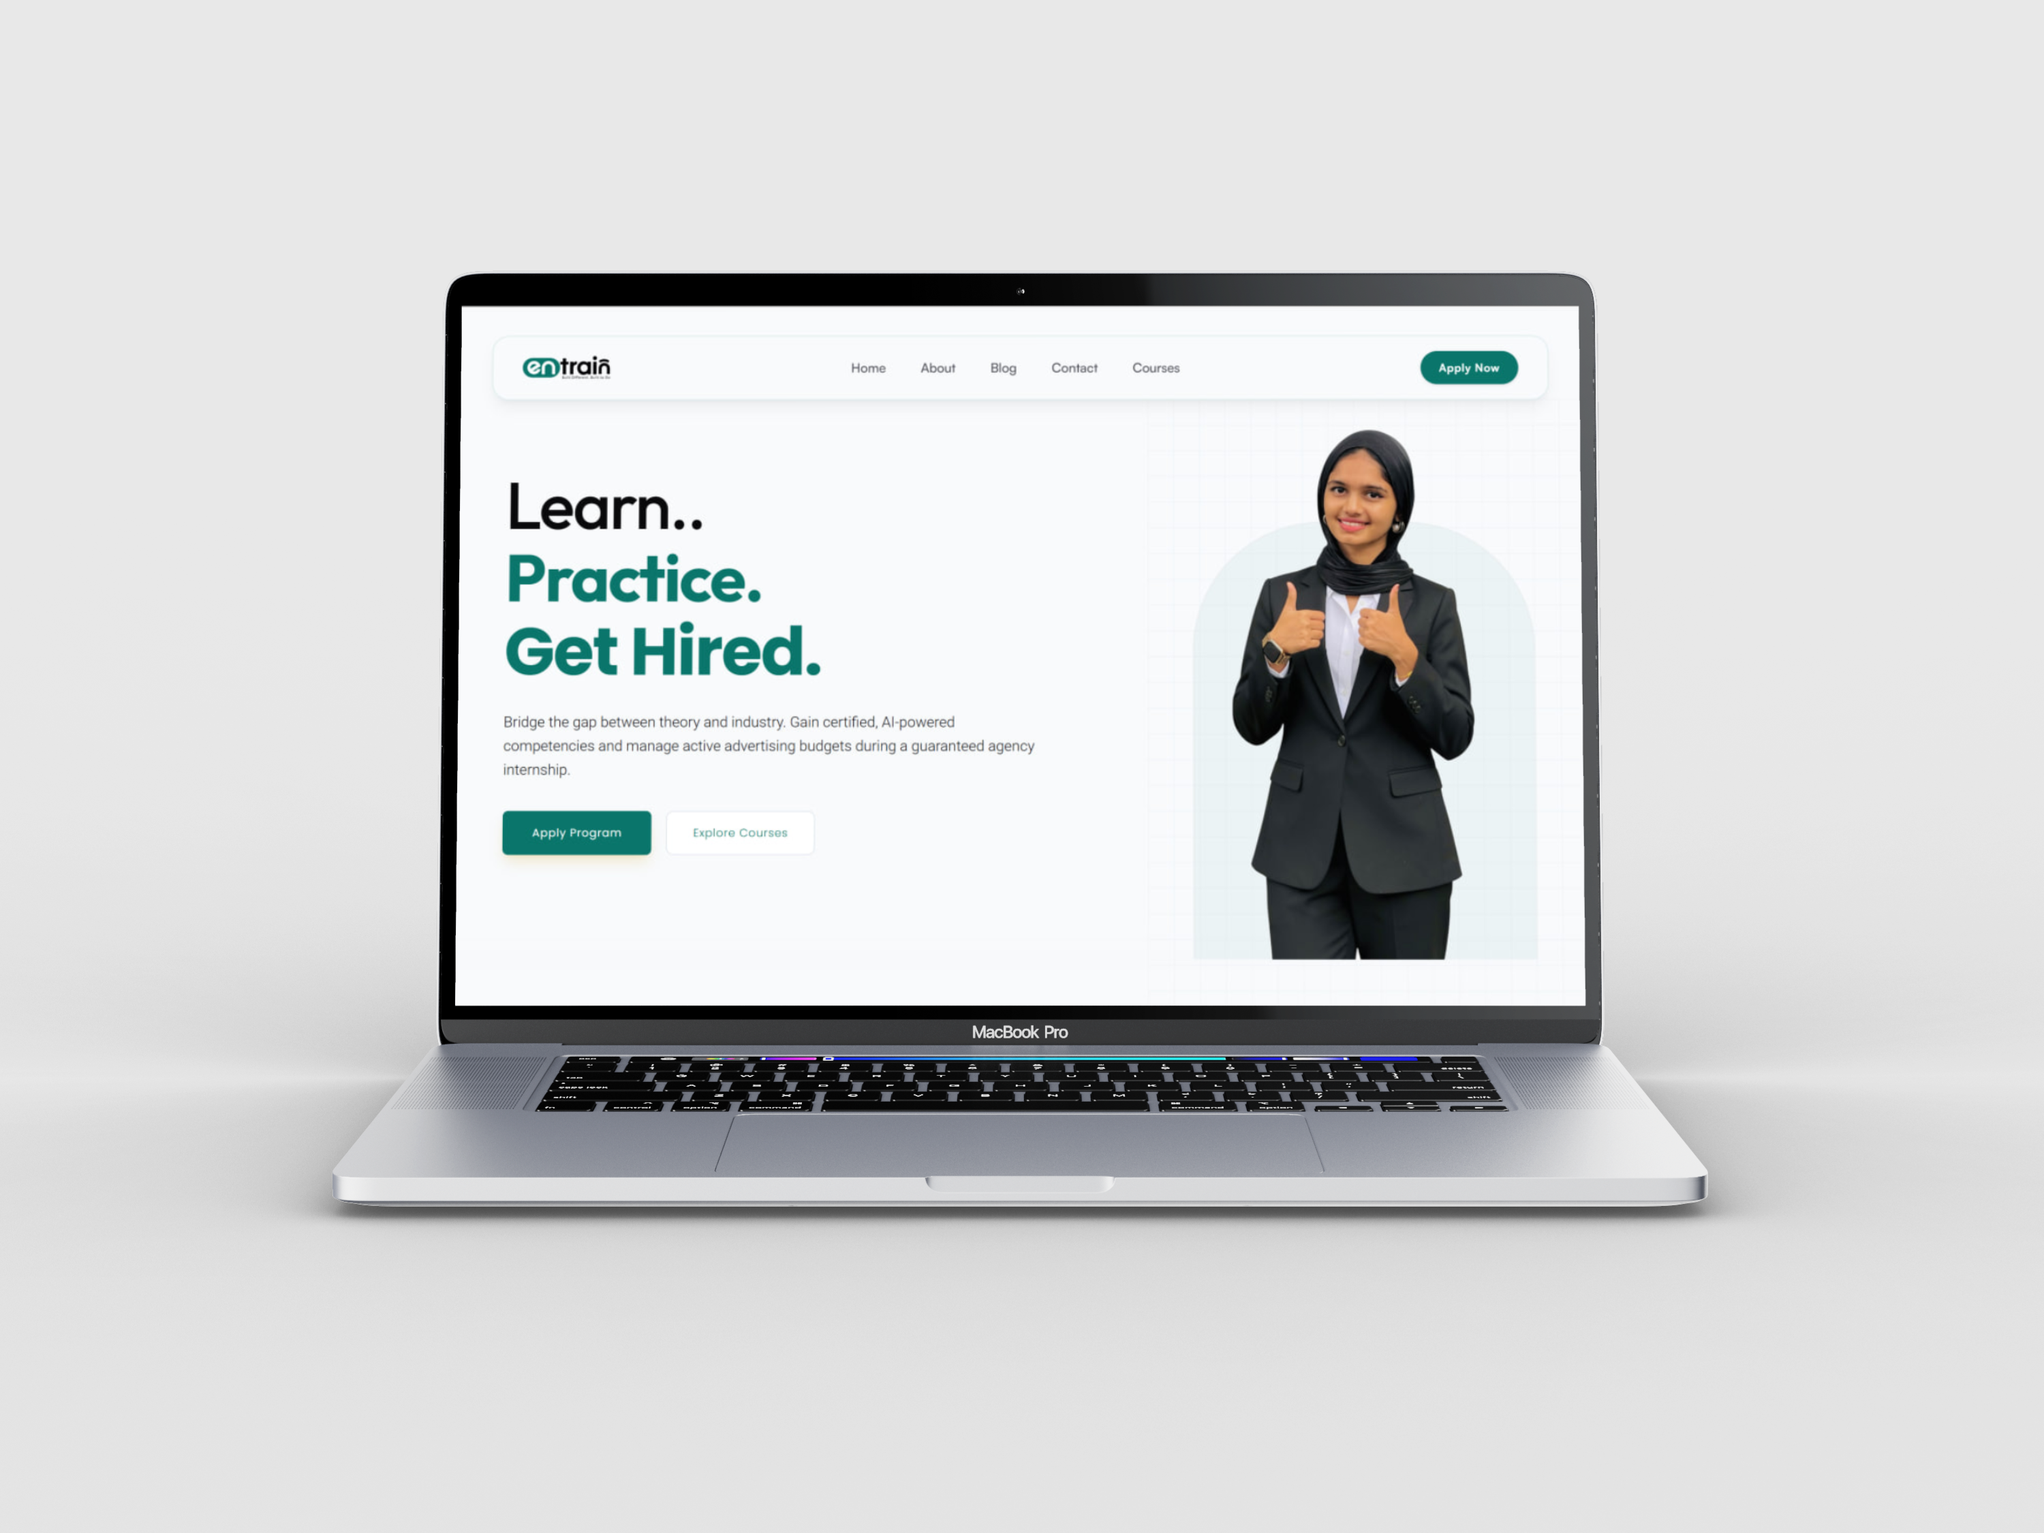
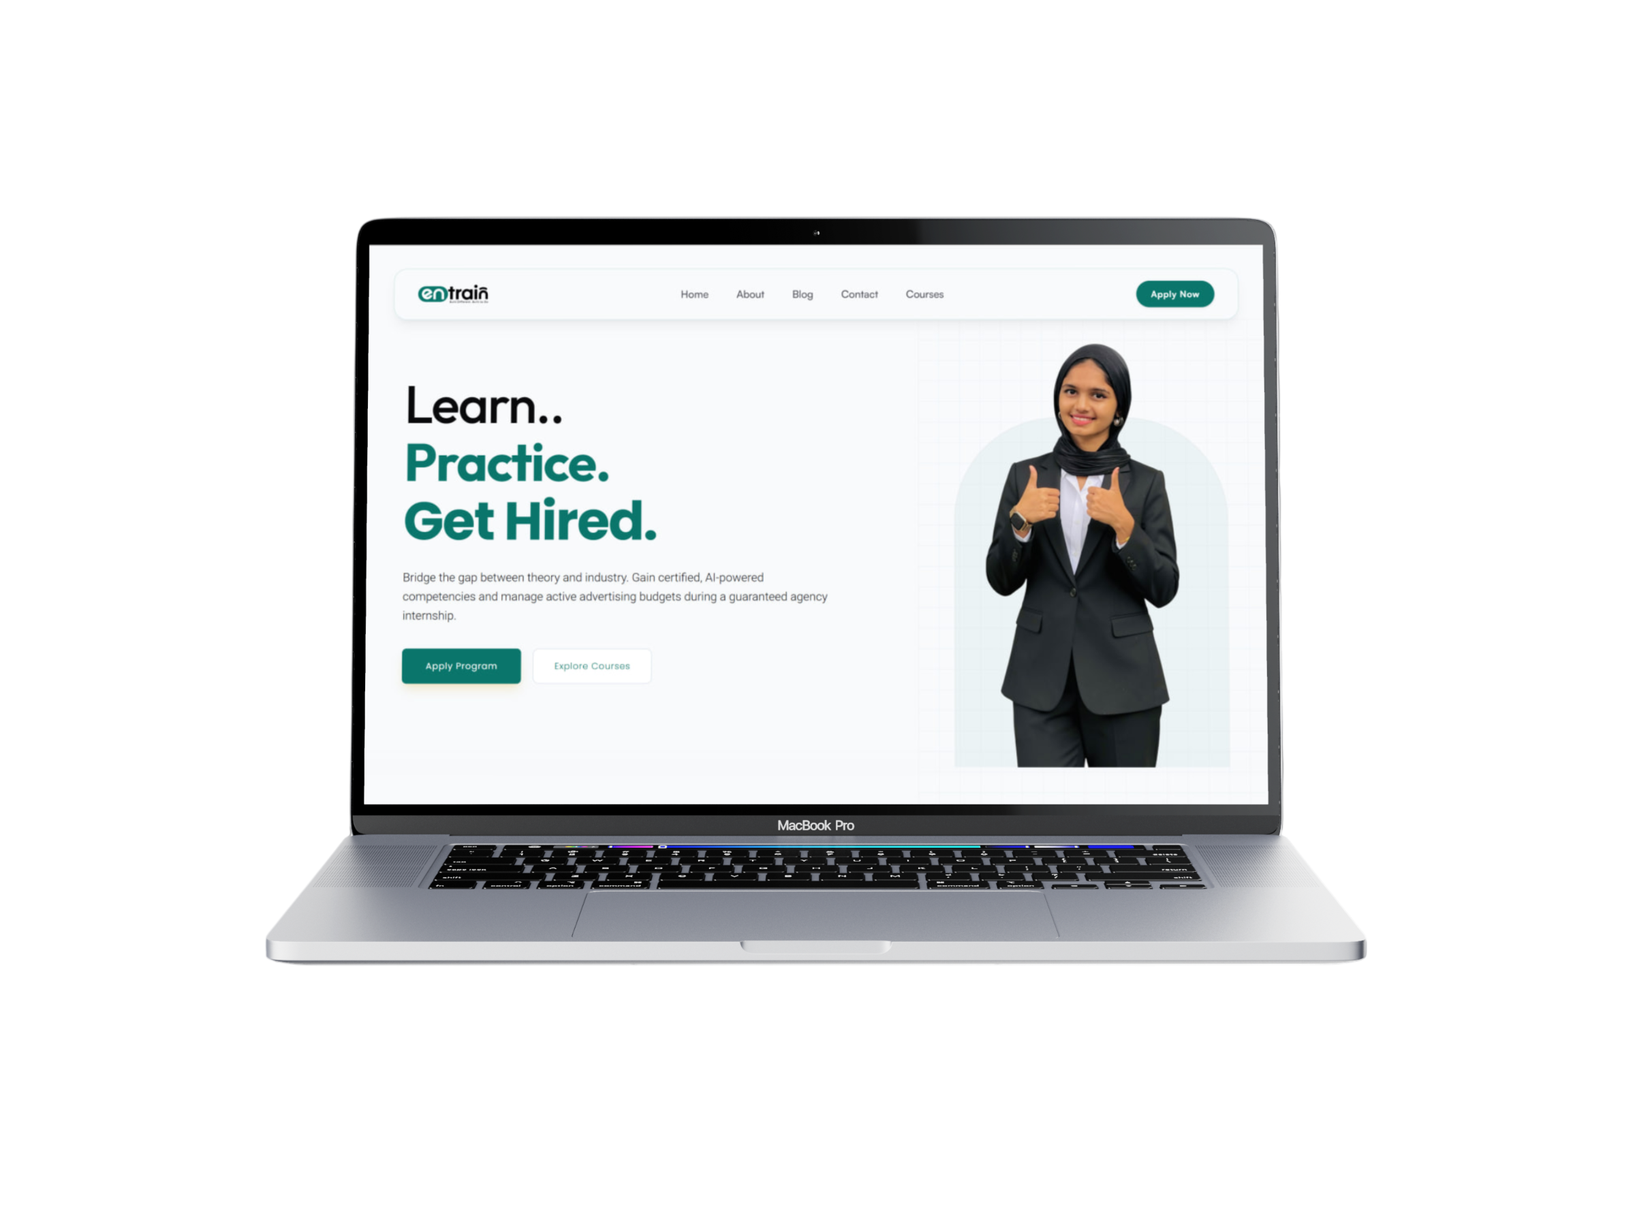
workspages

diff --git a/src/pages/Entrainlabs.jsx b/src/pages/Entrainlabs.jsx
@@ -47,14 +47,7 @@ export default function Entrainlabs({ onOpenConsultation }) {
 
                 {/* 2. BRAND COLOR SYSTEM & LOGO USAGE (colorpattern.png & entrain-three.png) */}
                 <div className="mb-20 space-y-10">
-                    <div className="max-w-3xl">
-                        {/* <span className="text-xs font-mono text-[#005C55] uppercase tracking-widest block mb-2 font-bold">
-              // BRAND ASSETS & LOGO GUIDELINES
-            </span> */}
-                        <h2 className="font-display text-3xl sm:text-5xl font-extrabold text-[#101827]">
-                            Color Topology & Logo Usage Rules
-                        </h2>
-                    </div>
+
 
                     <div className="grid grid-cols-1 lg:grid-cols-2 gap-8">
                         {/* Color System Board */}
@@ -81,10 +74,7 @@ export default function Entrainlabs({ onOpenConsultation }) {
                                         className="w-full h-auto object-contain block"
                                     />
                                 </div>
-                                <div className="px-3 pb-2">
-                                    <h3 className="font-display font-bold text-xl text-[#101827]">Logo Safety & Contrast Panels</h3>
-                                    <p className="text-xs text-neutral-500 font-mono mt-1">White Background • Light Grey Background • Dark Surface</p>
-                                </div>
+
                             </div>
                         </Reveal>
                     </div>
@@ -92,14 +82,7 @@ export default function Entrainlabs({ onOpenConsultation }) {
 
                 {/* 3. FULL BRAND IDENTITY SYSTEM BOARD (entrain.png) */}
                 <div className="mb-20 space-y-8">
-                    <div className="max-w-3xl">
-                        <span className="text-xs font-mono text-[#005C55] uppercase tracking-widest block mb-2 font-bold">
-          
-                        </span>
-                        <h2 className="font-display text-3xl sm:text-5xl font-extrabold text-[#101827]">
-                            Corporate Master Identity Specification
-                        </h2>
-                    </div>
+
 
                     <div className="grid grid-cols-1 lg:grid-cols-2 gap-8">
                         {/* Color System Board */}
@@ -126,81 +109,73 @@ export default function Entrainlabs({ onOpenConsultation }) {
                                         className="w-full h-auto object-contain block"
                                     />
                                 </div>
-                                <div className="px-3 pb-2">
-                                    <h3 className="font-display font-bold text-xl text-[#101827]">Logo Safety & Contrast Panels</h3>
-                                    <p className="text-xs text-neutral-500 font-mono mt-1">White Background • Light Grey Background • Dark Surface</p>
-                                </div>
+
                             </div>
                         </Reveal>
                     </div>
-                    <Reveal direction="up" delay={0.2}>
+                    {/* <Reveal direction="up" delay={0.2}>
                         <div className="w-full  overflow-hidden  group h-full flex flex-col justify-between p-3 sm:p-4">
                             <div className=" overflow-hidden mb-4">
                                 <img
-                                    src="/images/logo-card.png"
+                                    src="/images/logo-card-1.png"
                                     alt="enTrain Correct Logo Usage"
-                                    className="w-[25px] h-auto object-contain block"
+                                    className="w-full h-auto object-contain block"
                                 />
                             </div>
-                            <div className="px-3 pb-2">
-                                <h3 className="font-display font-bold text-xl text-[#101827]">Logo Safety & Contrast Panels</h3>
-                                <p className="text-xs text-neutral-500 font-mono mt-1">White Background • Light Grey Background • Dark Surface</p>
-                            </div>
+
                         </div>
-                    </Reveal>
+                    </Reveal> */}
+
+                    <div className="grid grid-cols-1 lg:grid-cols-2 gap-8">
+                        {/* Color System Board */}
+                        <Reveal direction="up" delay={0.1}>
+                            <div className="w-full  overflow-hidden     group h-full flex flex-col justify-between p-3 sm:p-4">
+                                <div className=" overflow-hidden mb-4">
+                                    <img
+                                        src="/images/logo-card-2.png"
+                                        alt="enTrain Corporate Color System"
+                                        className="w-full h-auto object-contain block"
+                                    />
+                                </div>
+
+                            </div>
+                        </Reveal>
+
+                        {/* Logo Usage Board */}
+                        <Reveal direction="up" delay={0.2}>
+                            <div className="w-full rounded-3xl overflow-hidden  border border-slate-300/60 group h-full flex flex-col justify-between p-3 sm:p-4">
+                                <div className=" overflow-hidden mb-4">
+                                    <img
+                                        src="/images/logo-card-1.png"
+                                        alt="enTrain Correct Logo Usage"
+                                        className="w-full h-auto object-contain block"
+                                    />
+                                </div>
+
+                            </div>
+                        </Reveal>
+                    </div>
                 </div>
 
                 {/* 4. DIGITAL INTERFACE PREVIEWS (LAPTOP & WEBSITE) */}
                 <div className="mb-20 space-y-8">
-                    <div className="max-w-3xl">
-                        <span className="text-xs font-mono text-[#005C55] uppercase tracking-widest block mb-2 font-bold">
-              // DIGITAL INTERFACE ARCHITECTURE
-                        </span>
-                        <h2 className="font-display text-3xl sm:text-5xl font-extrabold text-[#101827]">
-                            Web Platform & Application Execution
-                        </h2>
-                    </div>
+                  
 
-                    <div className="grid grid-cols-1 md:grid-cols-2 gap-8">
+                    <div className="grid grid-cols-1 gap-8">
                         <Reveal direction="up" delay={0.1}>
-                            <div className="bg-white rounded-3xl p-4 sm:p-6 shadow-xl border border-slate-300/60 h-full flex flex-col justify-between group">
-                                <div className="aspect-[16/10] rounded-2xl overflow-hidden bg-slate-100 mb-6">
+                            <div className="  p-4 sm:p-6 lg:p-8  h-full flex flex-col justify-between group">
+                                <div className="w-full rounded-2xl overflow-hidden">
                                     <img
                                         src="/images/labs-laptop-mockup.png"
                                         alt="enTrain Laptop Mockup"
-                                        className="w-full h-full object-cover transform group-hover:scale-105 transition-transform duration-700"
+                                        className="w-full h-auto object-contain block transform group-hover:scale-105 transition-transform duration-700"
                                     />
                                 </div>
-                                <div>
-                                    <h3 className="font-display text-2xl font-bold text-[#101827] mb-2">
-                                        Enterprise Advisory Portal
-                                    </h3>
-                                    <p className="text-neutral-600 text-sm leading-relaxed font-light">
-                                        High-trust web dashboard built for automated consulting appointment triggers and client telemetry.
-                                    </p>
-                                </div>
+
                             </div>
                         </Reveal>
 
-                        <Reveal direction="up" delay={0.2}>
-                            <div className="bg-white rounded-3xl p-4 sm:p-6 shadow-xl border border-slate-300/60 h-full flex flex-col justify-between group">
-                                <div className="aspect-[16/10] rounded-2xl overflow-hidden bg-slate-100 mb-6">
-                                    <img
-                                        src="/images/labswebsite.jpg"
-                                        alt="enTrain Web System"
-                                        className="w-full h-full object-cover transform group-hover:scale-105 transition-transform duration-700"
-                                    />
-                                </div>
-                                <div>
-                                    <h3 className="font-display text-2xl font-bold text-[#101827] mb-2">
-                                        Topical Authority Engine
-                                    </h3>
-                                    <p className="text-neutral-600 text-sm leading-relaxed font-light">
-                                        SEO-optimized web architecture engineered for organic traffic expansion and high conversion rates.
-                                    </p>
-                                </div>
-                            </div>
-                        </Reveal>
+
                     </div>
                 </div>
 

diff --git a/src/pages/Buckeez.jsx b/src/pages/Buckeez.jsx
@@ -7,14 +7,9 @@ import { Target, CheckCircle2 } from 'lucide-react';
 
 export default function Buckeez({ onOpenConsultation }) {
   return (
-    <main className="pt-24 sm:pt-32 pb-0 bg-[#E2E3E6] text-[#111111] min-h-screen">
+    <main className="pt-24 sm:pt-32 pb-0  bg-[#F3F1EE] text-[#111111] min-h-screen">
       <section className="py-12 sm:py-20 px-4 sm:px-6 lg:px-8 max-w-7xl mx-auto">
-        <SectionLabel label="CASE STUDY" variant="light" className="mb-4" />
-        
         <div className="mb-12">
-          <span className="text-xs font-mono font-bold tracking-widest text-[#4355A5] uppercase bg-[#4355A5]/10 px-3.5 py-1.5 rounded-full border border-[#4355A5]/20 inline-block mb-3">
-            FOOD & BEVERAGE FRANCHISE
-          </span>
           <h1 className="font-display text-4xl sm:text-6xl font-extrabold text-[#101827] tracking-tight">
             Buckeez Digital
           </h1>
@@ -23,38 +18,103 @@ export default function Buckeez({ onOpenConsultation }) {
           </p>
         </div>
 
-        {/* Hero Visual Mockup */}
-        <div className="w-full rounded-3xl sm:rounded-[2.5rem] overflow-hidden shadow-2xl bg-slate-900/5 mb-16">
-          <img
-            src="/images/buckeezmockup.png"
-            alt="Buckeez Digital Mockup"
-            className="w-full h-auto object-contain block"
-          />
-        </div>
+        {/* Hero & Interface Visual Showcase */}
+        <div className="space-y-2 mb-6">
+          <Reveal direction="up" delay={0.1}>
+            <div className="w-full rounded-3xl sm:rounded-[2.5rem] overflow-hidden">
+              <img
+                src="/images/buckeezmockup.png"
+                alt="Buckeez Main Digital Mockup"
+                className="w-full h-auto object-contain block"
+              />
+            </div>
+          </Reveal>
 
-        {/* Challenge & Solution */}
-        <div className="grid grid-cols-1 md:grid-cols-2 gap-8 mb-16">
-          <div className="p-8 rounded-3xl bg-white border border-slate-200/80 shadow-md">
-            <h3 className="font-display font-bold text-xl text-neutral-900 mb-3 flex items-center gap-2">
-              <Target className="w-5 h-5 text-amber-600" /> The Challenge
-            </h3>
-            <p className="text-neutral-600 text-base leading-relaxed">
-              Capturing mobile-first restaurant diners and increasing direct online franchise order volume while maintaining brand consistency across multiple locations.
-            </p>
+
+
+          {/* Brand Identity & Typography Guidelines */}
+          <div className="grid grid-cols-1 md:grid-cols-2 gap-8">
+            <Reveal direction="up" delay={0.25}>
+              <div className="w-full  p-4 sm:p-6  border-slate-300/60 overflow-hidden group transition-all duration-500 hover:shadow-2xl">
+                <div className="w-full rounded-2xl overflow-hidden  mb-4">
+                  <img
+                    src="/images/buckeez-brand-names.png"
+                    alt="Buckeez Brand Identity Guidelines"
+                    className="w-full h-auto object-contain block transform group-hover:scale-[1.015] transition-transform duration-700"
+                  />
+                </div>
+
+              </div>
+            </Reveal>
+
+            <Reveal direction="up" delay={0.3}>
+              <div className="w-full  rounded-3xl p-4 sm:p-6   overflow-hidden group transition-all duration-500 hover:shadow-2xl">
+                <div className="w-full  overflow-hidden  mb-4">
+                  <img
+                    src="/images/buckeez-fonts.png"
+                    alt="Buckeez Typography & Font System"
+                    className="w-full h-auto object-contain block transform group-hover:scale-[1.015] transition-transform duration-700"
+                  />
+                </div>
+
+              </div>
+            </Reveal>
+
+
+          </div>
+          <Reveal direction="up" delay={0.25}>
+            <div className="w-full  rounded-3xl overflow-hidden flex items-center justify-center">
+              <img
+                src="/images/buckeez-color-palette.png"
+                alt="Buckeez Corporate Color Palette"
+                className="w-full h-auto object-contain block transform hover:scale-[1.01] transition-transform duration-700"
+              />
+            </div>
+          </Reveal>
+          <div className="grid grid-cols-1 lg:grid-cols-12 gap-8 items-stretch">
+            {/* Tablet Mockup Card - 7 Columns */}
+            {/* <Reveal direction="up" delay={0.15} className="lg:col-span-7 flex">
+              <div className="w-full  rounded-3xl p-4 sm:p-6    overflow-hidden group transition-all duration-500  flex flex-col justify-between">
+                <div className="w-full rounded-2xl overflow-hidden  mb-4 flex items-center justify-center p-2">
+                  <img
+                    src="/images/buckeez_tablet_mockup.png"
+                    alt="Buckeez Tablet Ordering Interface"
+                    className="w-full h-auto object-contain block transform group-hover:scale-[1.02] transition-transform duration-700"
+                  />
+                </div>
+
+              </div>
+            </Reveal> */}
+
+            {/* Instagram Profile Card - 5 Columns */}
+            <Reveal direction="up" delay={0.2} className="lg:col-span-5 flex">
+              <div className="w-full  rounded-2xl p-4 sm:p-6      overflow-hidden group transition-all -px-2 duration-500  flex flex-col justify-between">
+                <div className="w-78 rounded-2xl overflow-hidden pt-2  mb-4 bg-white  flex items-center justify-center p-2">
+                  <img
+                    src="/images/buckeez-instagram.png"
+                    alt="Buckeez Social Media & Ad Campaign"
+                    className="w-full h-auto max-h-[500px]  object-contain block mx-auto transform group-hover:scale-[1.02] transition-transform duration-700"
+                  />
+                </div>
+                <div className="px-2 pt-1">
+                  <span className="text-[11px] font-mono font-bold tracking-widest text-[#4355A5] uppercase">
+                    {/* SOCIAL MEDIA & VIRAL REACH */}
+                  </span>
+                  <h3 className="font-display font-bold text-xl text-[#101827] mt-0.5">
+                    {/* Buckeez Community & Growth */}
+                  </h3>
+                </div>
+              </div>
+            </Reveal>
           </div>
 
-          <div className="p-8 rounded-3xl bg-white border border-slate-200/80 shadow-md">
-            <h3 className="font-display font-bold text-xl text-neutral-900 mb-3 flex items-center gap-2">
-              <CheckCircle2 className="w-5 h-5 text-emerald-600" /> The Growth Solution
-            </h3>
-            <p className="text-neutral-600 text-base leading-relaxed">
-              Designed an appetite-stimulating, fast-loading mobile interface with single-tap checkout, instant location detection, and localized marketing funnels.
-            </p>
-          </div>
+
+
         </div>
+
 
         {/* Action CTA */}
-        <div className="text-center pt-8">
+        <div className="text-center pt-8 pb-12">
           <Button variant="primary" size="lg" onClick={onOpenConsultation} showArrow={true}>
             Book Strategy Call
           </Button>

diff --git a/src/pages/WorkDetails.jsx b/src/pages/WorkDetails.jsx
@@ -29,15 +29,15 @@ export default function WorkDetails({ onOpenConsultation }) {
     },
     {
       id: 4,
-      title: 'enTrain Growth Labs', 
+      title: 'enTrain Growth Labs',
       featuredImage: '/images/labs-laptop-mockup.png',
       link: '/entrainlabs'
     }
   ];
 
   return (
-    <main className="pt-24 sm:pt-32 pb-0 bg-[#E2E3E6] text-[#111111] min-h-screen">
-      <section id="work-details-section" className="py-12 sm:py-20 bg-[#E2E3E6] text-[#101827] relative">
+    <main className="pt-24 sm:pt-32 pb-0 bg-[#F3F1EE] text-[#111111] min-h-screen">
+      <section id="work-details-section" className="py-12 sm:py-20 bg-[#F3F1EE] text-[#101827] relative">
         <div className="max-w-7xl mx-auto px-4 sm:px-6 lg:px-8">
 
           <SectionLabel label="PORTFOLIO SHOWCASE" variant="light" className="mb-4" />
@@ -54,7 +54,7 @@ export default function WorkDetails({ onOpenConsultation }) {
           <div className="grid grid-cols-1 md:grid-cols-2 gap-10 lg:gap-14">
             {caseStudies.map((project, index) => (
               <Reveal key={project.id} direction="up" delay={index * 0.1}>
-                <div 
+                <div
                   onClick={() => navigate(project.link)}
                   className="group cursor-pointer flex flex-col justify-between h-full"
                 >
